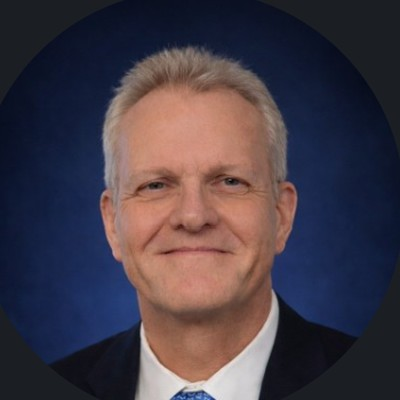
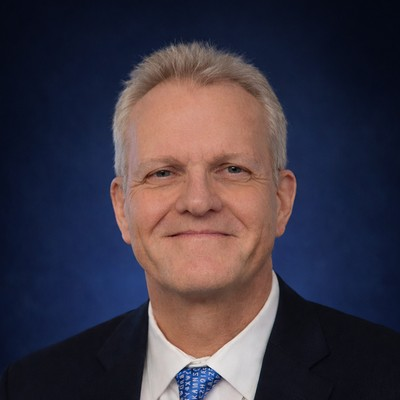
Add files via upload

Changed region(s): [[0.09, 0.09, 0.93, 1.0], [0.66, 0.33, 0.69, 0.36], [0.33, 0.15, 0.36, 0.18]]

diff --git a/blog/episode-05.html b/blog/episode-05.html
@@ -117,6 +117,28 @@
 <li>Why he believes leaders must help spread AI skills widely to prevent power from concentrating</li>
 </ul>
 <p>If you run a manufacturing, industrial or logistics operation and suspect your numbers aren’t telling the whole story, this episode shows what becomes possible when you can see your operation as it really is.</p>
+<h2>Chapters</h2>
+<ul>
+<li><a target="_blank" rel="noopener" href="https://www.youtube.com/watch?v=kRelMc3ij18">0:00</a> Intro</li>
+<li><a target="_blank" rel="noopener" href="https://www.youtube.com/watch?v=kRelMc3ij18&amp;t=88s">1:28</a> From a DARPA-funded autonomous helicopter to warehouse drones: the origin of physical AI at Gather AI</li>
+<li><a target="_blank" rel="noopener" href="https://www.youtube.com/watch?v=kRelMc3ij18&amp;t=249s">4:09</a> How "curious" drones use computer vision to count inventory without GPS</li>
+<li><a target="_blank" rel="noopener" href="https://www.youtube.com/watch?v=kRelMc3ij18&amp;t=325s">5:25</a> The hidden cost of undigitized physical data: lost inventory, stockouts and manufacturing line-down risk</li>
+<li><a target="_blank" rel="noopener" href="https://www.youtube.com/watch?v=kRelMc3ij18&amp;t=494s">8:14</a> Why operations run on three-month-old inventory data, and what a real-time digital twin changes</li>
+<li><a target="_blank" rel="noopener" href="https://www.youtube.com/watch?v=kRelMc3ij18&amp;t=535s">8:55</a> Deploying physical AI in a warehouse: live in 3 weeks, and the 99.9% vs 85% inventory accuracy reality</li>
+<li><a target="_blank" rel="noopener" href="https://www.youtube.com/watch?v=kRelMc3ij18&amp;t=692s">11:32</a> Drones, forklift cameras and WMS integration: how visual data fits your existing systems</li>
+<li><a target="_blank" rel="noopener" href="https://www.youtube.com/watch?v=kRelMc3ij18&amp;t=793s">13:13</a> ROI and payback: 4.5 months, low capex and fewer non-value-added tasks</li>
+<li><a target="_blank" rel="noopener" href="https://www.youtube.com/watch?v=kRelMc3ij18&amp;t=885s">14:45</a> How to sell AI when your KPIs are hiding the problem</li>
+<li><a target="_blank" rel="noopener" href="https://www.youtube.com/watch?v=kRelMc3ij18&amp;t=963s">16:03</a> AI agents for shift planning, forecasting, slotting and route planning: from insights to actions</li>
+<li><a target="_blank" rel="noopener" href="https://www.youtube.com/watch?v=kRelMc3ij18&amp;t=1067s">17:47</a> When physical AI makes sense for mid-market manufacturers and distribution centers</li>
+<li><a target="_blank" rel="noopener" href="https://www.youtube.com/watch?v=kRelMc3ij18&amp;t=1186s">19:46</a> From reactive to proactive inventory management: mispicks, customer complaints and labor planning</li>
+<li><a target="_blank" rel="noopener" href="https://www.youtube.com/watch?v=kRelMc3ij18&amp;t=1321s">22:01</a> How to measure operational ROI on the P&amp;L</li>
+<li><a target="_blank" rel="noopener" href="https://www.youtube.com/watch?v=kRelMc3ij18&amp;t=1393s">23:13</a> Building hardware and software: why physical AI has a smaller margin of error</li>
+<li><a target="_blank" rel="noopener" href="https://www.youtube.com/watch?v=kRelMc3ij18&amp;t=1481s">24:41</a> Why AI pilots fail: success metrics not agreed upfront</li>
+<li><a target="_blank" rel="noopener" href="https://www.youtube.com/watch?v=kRelMc3ij18&amp;t=1581s">26:21</a> Contrarian take: the cost-center mindset, $500K integrations and the capex myth</li>
+<li><a target="_blank" rel="noopener" href="https://www.youtube.com/watch?v=kRelMc3ij18&amp;t=1730s">28:50</a> Beyond inventory counting: orchestrating the warehouse with AI agents on ground-truth data</li>
+<li><a target="_blank" rel="noopener" href="https://www.youtube.com/watch?v=kRelMc3ij18&amp;t=1782s">29:42</a> Final message: AI and the centralization of power</li>
+<li><a target="_blank" rel="noopener" href="https://www.youtube.com/watch?v=kRelMc3ij18&amp;t=1865s">31:05</a> Closing</li>
+</ul>
 <p>#PhysicalAI #AIinManufacturing #SupplyChain</p></div>
   <a class="back-link" href="index.html">&#8592; All Episodes &amp; Posts</a>
 </div>

diff --git a/blog/content/episode-05.md b/blog/content/episode-05.md
@@ -38,4 +38,26 @@ Sankalp holds a PhD in robotics from Carnegie Mellon University, where he and hi
 
 If you run a manufacturing, industrial or logistics operation and suspect your numbers aren’t telling the whole story, this episode shows what becomes possible when you can see your operation as it really is.
 
+## Chapters
+
+- [0:00](https://www.youtube.com/watch?v=kRelMc3ij18) Intro
+- [1:28](https://www.youtube.com/watch?v=kRelMc3ij18&t=88s) From a DARPA-funded autonomous helicopter to warehouse drones: the origin of physical AI at Gather AI
+- [4:09](https://www.youtube.com/watch?v=kRelMc3ij18&t=249s) How "curious" drones use computer vision to count inventory without GPS
+- [5:25](https://www.youtube.com/watch?v=kRelMc3ij18&t=325s) The hidden cost of undigitized physical data: lost inventory, stockouts and manufacturing line-down risk
+- [8:14](https://www.youtube.com/watch?v=kRelMc3ij18&t=494s) Why operations run on three-month-old inventory data, and what a real-time digital twin changes
+- [8:55](https://www.youtube.com/watch?v=kRelMc3ij18&t=535s) Deploying physical AI in a warehouse: live in 3 weeks, and the 99.9% vs 85% inventory accuracy reality
+- [11:32](https://www.youtube.com/watch?v=kRelMc3ij18&t=692s) Drones, forklift cameras and WMS integration: how visual data fits your existing systems
+- [13:13](https://www.youtube.com/watch?v=kRelMc3ij18&t=793s) ROI and payback: 4.5 months, low capex and fewer non-value-added tasks
+- [14:45](https://www.youtube.com/watch?v=kRelMc3ij18&t=885s) How to sell AI when your KPIs are hiding the problem
+- [16:03](https://www.youtube.com/watch?v=kRelMc3ij18&t=963s) AI agents for shift planning, forecasting, slotting and route planning: from insights to actions
+- [17:47](https://www.youtube.com/watch?v=kRelMc3ij18&t=1067s) When physical AI makes sense for mid-market manufacturers and distribution centers
+- [19:46](https://www.youtube.com/watch?v=kRelMc3ij18&t=1186s) From reactive to proactive inventory management: mispicks, customer complaints and labor planning
+- [22:01](https://www.youtube.com/watch?v=kRelMc3ij18&t=1321s) How to measure operational ROI on the P&L
+- [23:13](https://www.youtube.com/watch?v=kRelMc3ij18&t=1393s) Building hardware and software: why physical AI has a smaller margin of error
+- [24:41](https://www.youtube.com/watch?v=kRelMc3ij18&t=1481s) Why AI pilots fail: success metrics not agreed upfront
+- [26:21](https://www.youtube.com/watch?v=kRelMc3ij18&t=1581s) Contrarian take: the cost-center mindset, $500K integrations and the capex myth
+- [28:50](https://www.youtube.com/watch?v=kRelMc3ij18&t=1730s) Beyond inventory counting: orchestrating the warehouse with AI agents on ground-truth data
+- [29:42](https://www.youtube.com/watch?v=kRelMc3ij18&t=1782s) Final message: AI and the centralization of power
+- [31:05](https://www.youtube.com/watch?v=kRelMc3ij18&t=1865s) Closing
+
 \#PhysicalAI \#AIinManufacturing \#SupplyChain
